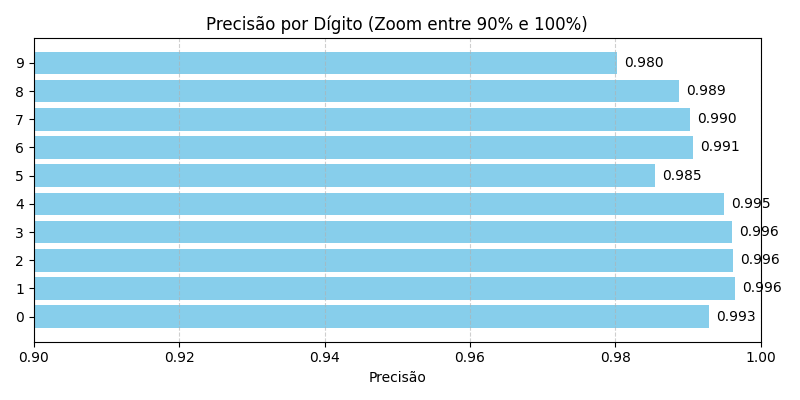
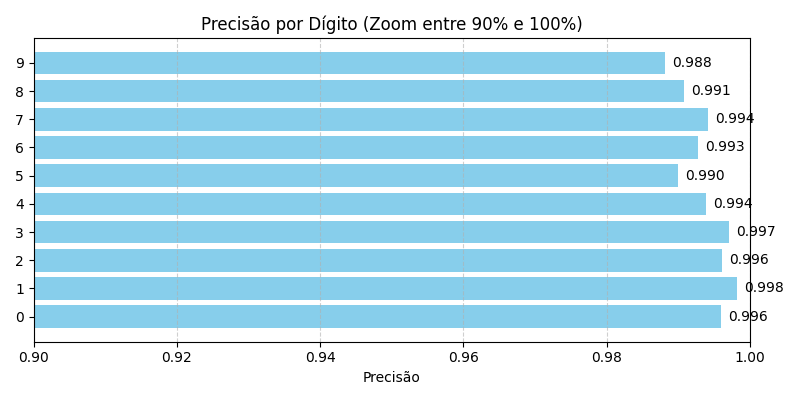
First commit

diff --git a/main.py b/main.py
@@ -11,7 +11,6 @@ import os
 
 def carregar_dataset():
     transformacao = transforms.Compose([
-        transforms.RandomRotation(10),
         transforms.ToTensor(),
         transforms.Normalize((0.1307,), (0.3081,))
     ])
@@ -43,15 +42,12 @@ def main():
 
     numeroDeEpocas = 200
     
-    if (os.path.exists("util/melhor.pth") or os.path.exists("util/atual.pth")) and input("Deseja carregar algum modelo salvo? (s/n): ").strip().lower() == 's':
+    if os.path.exists("util/modelo.pth") and input("Deseja carregar o modelo salvo? (s/n): ").strip().lower() == 's':
 
-        if input("Melhor ou atual? (m/a):").strip().lower() == "m":
-            modelo.load_state_dict(torch.load("util/melhor.pth"))
-            print("\nModelo melhor carregado com sucesso!")
+        
+            modelo.load_state_dict(torch.load("util/modelo.pth"))
+            print("\nModelo carregado com sucesso!")
 
-        else:
-            modelo.load_state_dict(torch.load("util/atual.pth"))
-            print("\nModelo atual carregado com sucesso!")
 
     else:
         print("\nPreparando o treinamento ... \n")
@@ -68,8 +64,8 @@ def main():
             print(f"Época {epoca + 1}/{numeroDeEpocas} - Perda treino: {perda_epoca[-1]:.4f}, Perda teste: {perda_teste:.4f}, Acurácia: {acuracia:.2%}")
 
         plotar_perdas(perdas_treino, perdas_teste, numeroDeEpocas)
-        torch.save(modelo.state_dict(), "util/atual.pth")
-        print("Modelo salvo como atual.pth")
+        torch.save(modelo.state_dict(), "util/modelo.pth")
+        print("Modelo salvo como modelo.pth")
 
     _, acuracia_final, precisoes = avaliar(modelo, carregadorDeTeste, funcaoDePerda, device)
     print(f"Acurácia final: {acuracia_final:.2%}")

diff --git a/CNN.py b/CNN.py
@@ -4,6 +4,7 @@ import torch.nn as nn
 class CNN(nn.Module):
     def __init__(self):
         super(CNN, self).__init__()
+        
         self.conv1 = nn.Conv2d(1, 32, kernel_size=3, padding=1)
         self.conv2 = nn.Conv2d(32, 64, kernel_size=3, padding=1)
         self.conv3 = nn.Conv2d(64, 128, kernel_size=3, padding=1)
@@ -23,9 +24,5 @@ class CNN(nn.Module):
 
         x = torch.flatten(x, 1)
 
-        x = torch.relu(self.fc1(x))
-        x = self.fc2(x)
-
-        x = nn.functional.softmax(x, dim=1)
+        return self.fc2(torch.relu(self.fc1(x)))
         
-        return x
